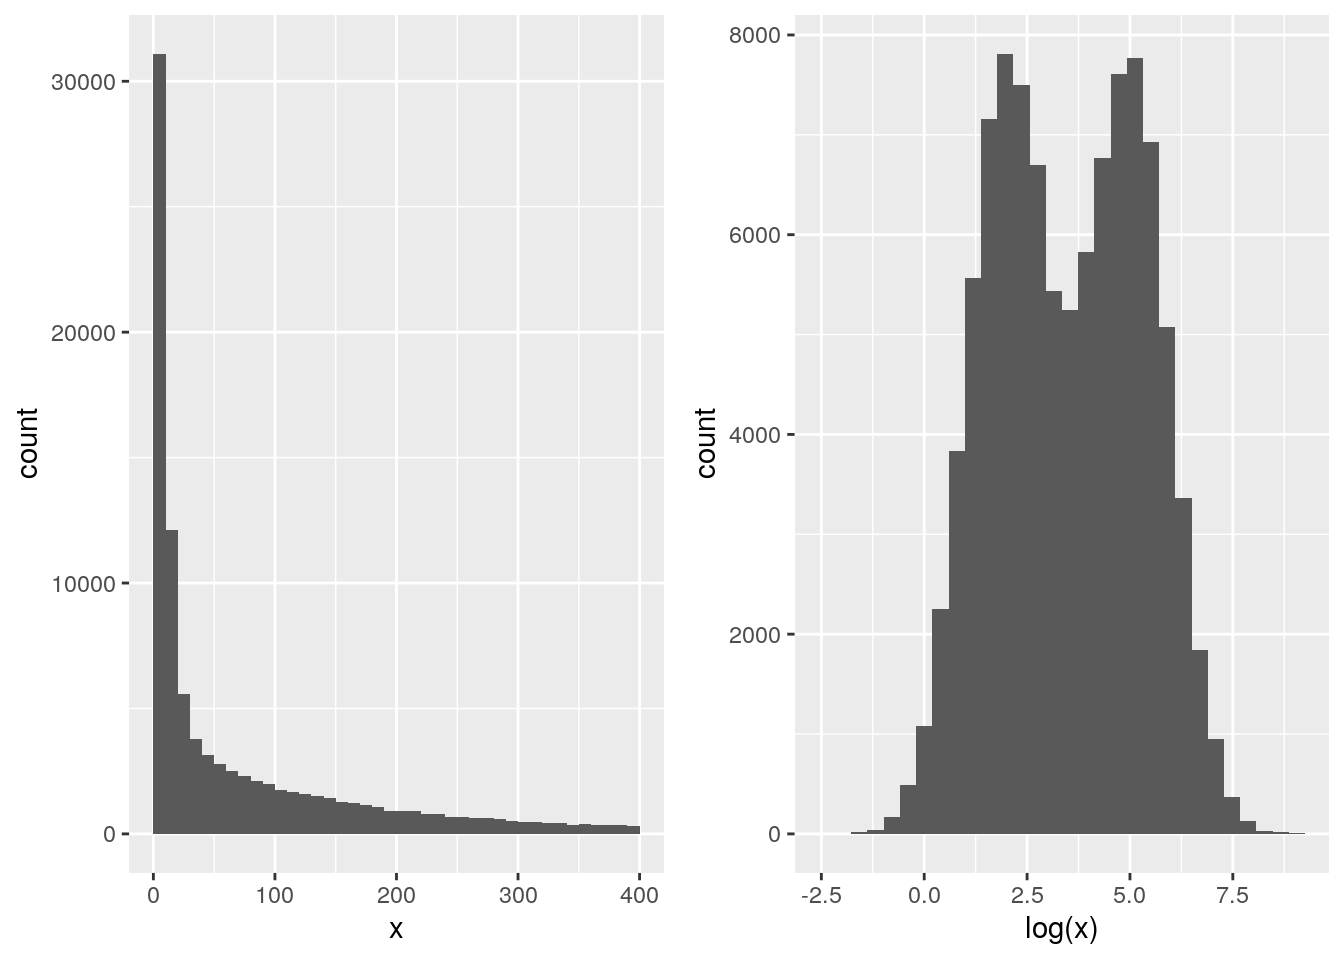
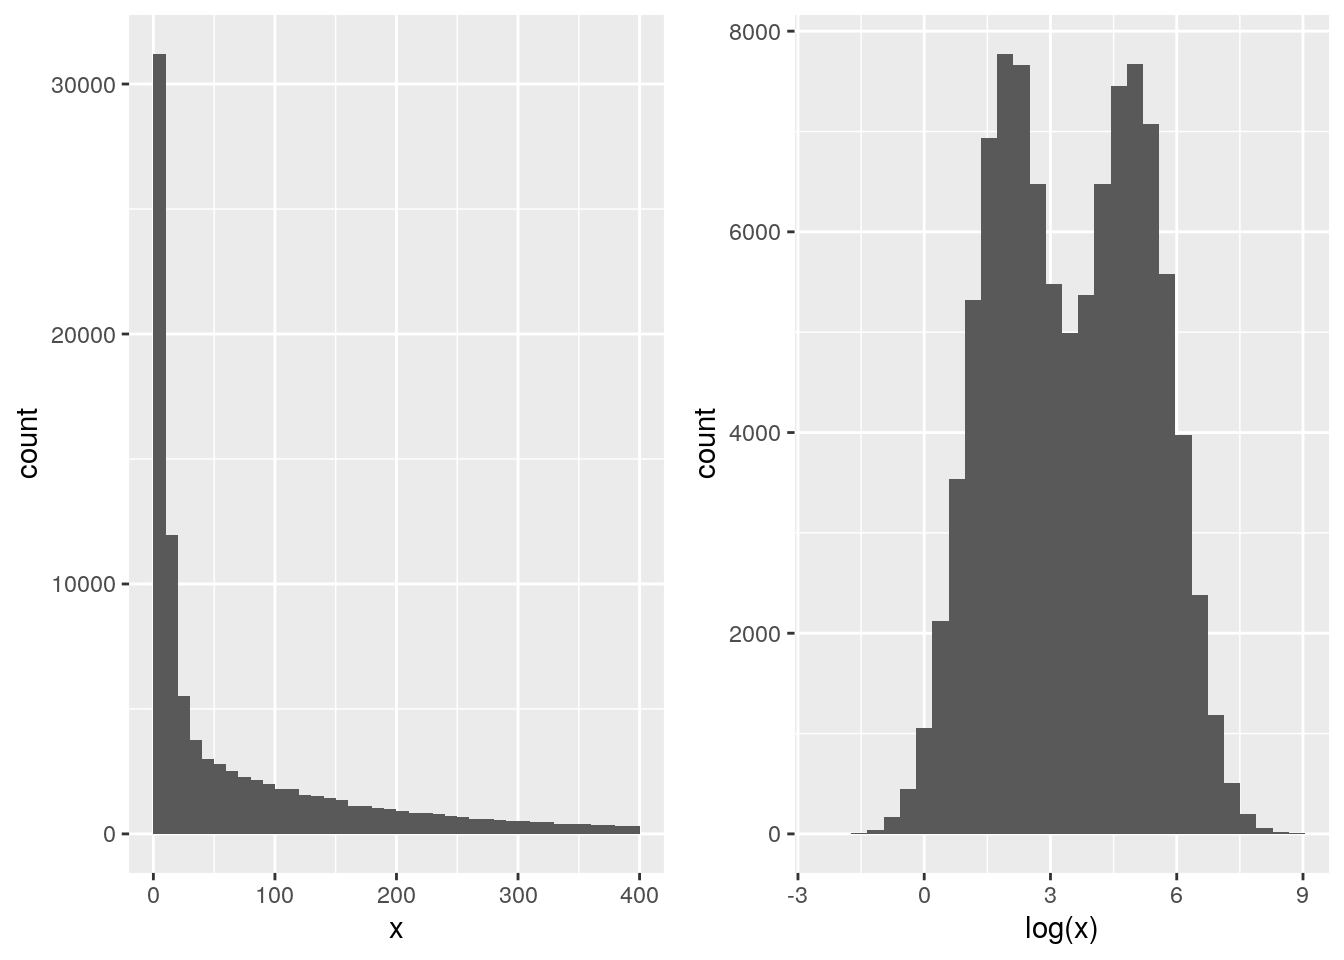
new material for pca

diff --git a/docs/sec-dimred.html b/docs/sec-dimred.html
@@ -15,7 +15,7 @@
 
 <meta name="author" content="Laurent Gatto" />
 
-<meta name="date" content="2019-11-10" />
+<meta name="date" content="2019-11-11" />
 
 <script type="text/x-mathjax-config">
 MathJax.Hub.Config({
@@ -118,6 +118,7 @@ code > span.in { color: #60a0b0; font-weight: bold; font-style: italic; } /* Inf
 <a id="active-page" href="sec-dimred.html"><span class="toc-section-number">9</span> Dimensionality reduction</a><ul class="toc-sections">
 <li class="toc"><a href="#introduction-4"> Introduction</a></li>
 <li class="toc"><a href="#lower-dimensional-projections"> Lower-dimensional projections</a></li>
+<li class="toc"><a href="#the-new-linear-combinations"> The new linear combinations</a></li>
 <li class="toc"><a href="#old-material"> Old material</a></li>
 <li class="toc"><a href="#t-distributed-stochastic-neighbour-embedding"> t-Distributed Stochastic Neighbour Embedding</a></li>
 </ul>
@@ -176,14 +177,40 @@ Figure 9.3: Regression of y onto x (left) minimisises the sums of squares of ver
 <div class="figure">
 <span id="fig:pxaex"></span>
 <p class="caption marginnote shownote">
-Figure 9.4: The prinicpal component minimises the sum of squares of the orthogonal projections.
+Figure 9.4: The first prinicpal component minimises the sum of squares of the orthogonal projections.
 </p>
-<img src="WSBIM1322_files/figure-html/pxaex-1.png" alt="The prinicpal component minimises the sum of squares of the orthogonal projections." width="1056">
+<img src="WSBIM1322_files/figure-html/pxaex-1.png" alt="The first prinicpal component minimises the sum of squares of the orthogonal projections." width="1056">
 </div>
+<p>The second principal component is then chosen to be orthogonal to the first one. In our case above, there is only one possibility.</p>
+<div class="figure">
+<span id="fig:pxaex2"></span>
+<p class="caption marginnote shownote">
+Figure 9.5: The second prinicpal component is orthogonal to the second one.
+</p>
+<img src="WSBIM1322_files/figure-html/pxaex2-1.png" alt="The second prinicpal component is orthogonal to the second one." width="1056">
+</div>
+<p>In the example above the variance, the variance along the PCs are 1.83 and 0.17. The first one explains 91.7% or that variance, and the second one merely 8.3%. This is also reflected in the different scales along the x and y axis.</p>
+<p>To account for these differences in variation along the different PCs, it is better to represent a PCA plot as a rectangle, using a ratio that is proportional to the respective variances.</p>
+<div class="figure">
+<span id="fig:pxaex3"></span>
+<p class="caption marginnote shownote">
+Figure 9.6: Final principal component analysis of the data.
+</p>
+<img src="WSBIM1322_files/figure-html/pxaex3-1.png" alt="Final principal component analysis of the data." width="960">
+</div>
+</div>
+<div id="the-new-linear-combinations" class="section level2">
+<h2>
+<span class="header-section-number">9.3</span> The new linear combinations</h2>
+<p>Principal components are linear combinations of the variables that were originally measured, they provide a new coordinate system. The PC in the previous example is a linear combination of <em>gene_x</em> and <em>gene_y</em>, more specifically</p>
+<p><span class="math display">\[ PC = c__1 gene_x + c_2 gene_y \]</span></p>
+<p>It has coefficients <span class="math inline">\((c_1, c_2)\)</span>, also called loading.</p>
+<p>PCA in general will find linear combinations of the original variables. These new linear combinations will maximise the variance of the data.</p>
+<p>TEXT: explain linear combinations and loadings; optimal lines (camel example).</p>
 </div>
 <div id="old-material" class="section level2">
 <h2>
-<span class="header-section-number">9.3</span> Old material</h2>
+<span class="header-section-number">9.4</span> Old material</h2>
 <p>Principal Component Analysis (PCA) is a technique that transforms the original n-dimensional data into a new n-dimensional space.</p>
 <ul>
 <li><p>These new dimensions are linear combinations of the original data, i.e. they are composed of proportions of the original variables.</p></li>
@@ -193,7 +220,7 @@ Figure 9.4: The prinicpal component minimises the sum of squares of the orthogon
 <div class="figure">
 <span id="fig:pcaex"></span>
 <p class="caption marginnote shownote">
-Figure 9.5: Original data (left). PC1 will maximise the variability while minimising the residuals (centre). PC2 is orthogonal to PC1 (right).
+Figure 9.7: Original data (left). PC1 will maximise the variability while minimising the residuals (centre). PC2 is orthogonal to PC1 (right).
 </p>
 <img src="WSBIM1322_files/figure-html/pcaex-1.png" alt="Original data (left). PC1 will maximise the variability while minimising the residuals (centre). PC2 is orthogonal to PC1 (right)." width="1152">
 </div>
@@ -213,13 +240,13 @@ Figure 9.5: Original data (left). PC1 will maximise the variability while minimi
 <div class="figure">
 <span id="fig:histpc1"></span>
 <p class="caption marginnote shownote">
-Figure 9.6: Iris data along PC1.
+Figure 9.8: Iris data along PC1.
 </p>
 <img src="WSBIM1322_files/figure-html/histpc1-1.png" alt="Iris data along PC1." width="672">
 </div>
 <div id="visualisation" class="section level3">
 <h3>
-<span class="header-section-number">9.3.1</span> Visualisation</h3>
+<span class="header-section-number">9.4.1</span> Visualisation</h3>
 <p>A <strong>biplot</strong> features all original points re-mapped (rotated) along the first two PCs as well as the original features as vectors along the same PCs. Feature vectors that are in the same direction in PC space are also correlated in the original data space.</p>
 <div class="sourceCode"><pre class="sourceCode r"><code class="sourceCode r"><span class="kw">biplot</span>(irispca)</code></pre></div>
 <p><img src="WSBIM1322_files/figure-html/irisbiplot-1.png" width="672"></p>
@@ -246,7 +273,7 @@ Figure 9.6: Iris data along PC1.
 </div>
 <div id="data-pre-processing" class="section level3">
 <h3>
-<span class="header-section-number">9.3.2</span> Data pre-processing</h3>
+<span class="header-section-number">9.4.2</span> Data pre-processing</h3>
 <p>We haven’t looked at other <code>prcomp</code> parameters, other that the first one, <code>x</code>. There are two other ones that are or importance, in particular in the light of the section on pre-processing above, which are <code>center</code> and <code>scale.</code>. The former is set to <code>TRUE</code> by default, while the second one is set the <code>FALSE</code>.</p>
 <blockquote>
 <p>Challenge</p>
@@ -261,7 +288,7 @@ Figure 9.6: Iris data along PC1.
 </div>
 <div id="final-comments-on-pca" class="section level3">
 <h3>
-<span class="header-section-number">9.3.3</span> Final comments on PCA</h3>
+<span class="header-section-number">9.4.3</span> Final comments on PCA</h3>
 <p>Real datasets often come with <strong>missing values</strong>. In R, these should be encoded using <code>NA</code>. Unfortunately, PCA cannot deal with missing values, and observations containing <code>NA</code> values will be dropped automatically. This is a viable solution only when the proportion of missing values is low.</p>
 <p>It is also possible to impute missing values. This is described in greater details in the <em>Data pre-processing</em> section in the supervised machine learning chapter.</p>
 <p>Finally, we should be careful when using categorical data in any of the unsupervised methods described above. Categories are generally represented as factors, which are encoded as integer levels, and might give the impression that a distance between levels is a relevant measure (which it is not, unless the factors are ordered). In such situations, categorical data can be dropped, or it is possible to encode categories as binary <strong>dummy variables</strong>. For example, if we have 3 categories, say <code>A</code>, <code>B</code> and <code>C</code>, we would create two dummy variables to encode the categories as:</p>
@@ -294,7 +321,7 @@ Figure 9.6: Iris data along PC1.
 </div>
 <div id="t-distributed-stochastic-neighbour-embedding" class="section level2">
 <h2>
-<span class="header-section-number">9.4</span> t-Distributed Stochastic Neighbour Embedding</h2>
+<span class="header-section-number">9.5</span> t-Distributed Stochastic Neighbour Embedding</h2>
 <p><a href="https://lvdmaaten.github.io/tsne/">t-Distributed Stochastic Neighbour Embedding</a> (t-SNE) is a <em>non-linear</em> dimensionality reduction technique, i.e. that different regions of the data space will be subjected to different transformations. t-SNE will compress small distances, thus bringing close neighbours together, and will ignore large distances. It is particularly well suited for <a href="https://distill.pub/2016/misread-tsne/">very high dimensional data</a>.</p>
 <p>In R, we can use the <code>Rtsne</code> function from the <em><a href="https://CRAN.R-project.org/package=Rtsne">Rtsne</a></em>. Before, we however need to remove any duplicated entries in the dataset.</p>
 <div class="sourceCode"><pre class="sourceCode r"><code class="sourceCode r"><span class="kw">library</span>(<span class="st">"Rtsne"</span>)
@@ -305,7 +332,7 @@ iristsne &lt;-<span class="st"> </span><span class="kw">Rtsne</span>(uiris[, <sp
 <p>As with PCA, the data can be scaled and centred prior the running t-SNE (see the <code>pca_center</code> and <code>pca_scale</code> arguments). The algorithm is stochastic, and will produce different results at each repetition.</p>
 <div id="parameter-tuning" class="section level3">
 <h3>
-<span class="header-section-number">9.4.1</span> Parameter tuning</h3>
+<span class="header-section-number">9.5.1</span> Parameter tuning</h3>
 <p>t-SNE (as well as many other methods, in particular classification algorithms) has two important parameters that can substantially influence the clustering of the data</p>
 <ul>
 <li>
@@ -331,7 +358,7 @@ iristsne &lt;-<span class="st"> </span><span class="kw">Rtsne</span>(uiris[, <sp
 <a href="sec-sl.html"><button class="btn btn-default">Next</button></a>
 </p>
 <p class="build-date">Page built: 
-2019-11-10
+2019-11-11
 </p>
 </div>
 </div>

diff --git a/docs/sec-vis.html b/docs/sec-vis.html
@@ -15,7 +15,7 @@
 
 <meta name="author" content="Laurent Gatto" />
 
-<meta name="date" content="2019-11-10" />
+<meta name="date" content="2019-11-11" />
 
 <script type="text/x-mathjax-config">
 MathJax.Hub.Config({
@@ -720,7 +720,7 @@ p1 &lt;-<span class="st">  </span><span class="kw">ggplot</span>(sim, <span clas
 p2 &lt;-<span class="st">  </span><span class="kw">ggplot</span>(sim, <span class="kw">aes</span>(<span class="kw">log</span>(x))) <span class="op">+</span>
 <span class="st">    </span><span class="kw">geom_histogram</span>(<span class="dt">bins =</span> <span class="dv">30</span>)
 p1 <span class="op">+</span><span class="st"> </span>p2</code></pre></div>
-<pre><code>## Warning: Removed 7986 rows containing non-finite values (stat_bin).</code></pre>
+<pre><code>## Warning: Removed 8047 rows containing non-finite values (stat_bin).</code></pre>
 <div class="figure">
 <span id="fig:sim"></span>
 <p class="caption marginnote shownote">
@@ -937,7 +937,7 @@ scp2 &lt;-<span class="st"> </span>scp <span class="op">+</span><span class="st"
 <a href="sec-obj.html"><button class="btn btn-default">Next</button></a>
 </p>
 <p class="build-date">Page built: 
-2019-11-10
+2019-11-11
 </p>
 </div>
 </div>

diff --git a/docs/index.html b/docs/index.html
@@ -15,7 +15,7 @@
 
 <meta name="author" content="Laurent Gatto" />
 
-<meta name="date" content="2019-11-10" />
+<meta name="date" content="2019-11-11" />
 
 <script type="text/x-mathjax-config">
 MathJax.Hub.Config({
@@ -197,7 +197,7 @@ devtools<span class="op">::</span><span class="kw">install_github</span>(<span c
 <a href="sec-refresher.html"><button class="btn btn-default">Next</button></a>
 </p>
 <p class="build-date">Page built: 
-2019-11-10
+2019-11-11
 </p>
 </div>
 </div>

diff --git a/docs/sec-si.html b/docs/sec-si.html
@@ -15,7 +15,7 @@
 
 <meta name="author" content="Laurent Gatto" />
 
-<meta name="date" content="2019-11-10" />
+<meta name="date" content="2019-11-11" />
 
 <script type="text/x-mathjax-config">
 MathJax.Hub.Config({
@@ -275,7 +275,7 @@ BiocManager<span class="op">::</span><span class="kw">install</span>(pkgs)</code
 <a href="sec-ccl.html"><button class="btn btn-default">Previous</button></a>
 </p>
 <p class="build-date">Page built: 
-2019-11-10
+2019-11-11
 </p>
 </div>
 </div>

diff --git a/docs/sec-sl.html b/docs/sec-sl.html
@@ -15,7 +15,7 @@
 
 <meta name="author" content="Laurent Gatto" />
 
-<meta name="date" content="2019-11-10" />
+<meta name="date" content="2019-11-11" />
 
 <script type="text/x-mathjax-config">
 MathJax.Hub.Config({
@@ -140,7 +140,7 @@ code > span.in { color: #60a0b0; font-weight: bold; font-style: italic; } /* Inf
 <a href="sec-biovis.html"><button class="btn btn-default">Next</button></a>
 </p>
 <p class="build-date">Page built: 
-2019-11-10
+2019-11-11
 </p>
 </div>
 </div>

diff --git a/docs/sec-ul.html b/docs/sec-ul.html
@@ -15,7 +15,7 @@
 
 <meta name="author" content="Laurent Gatto" />
 
-<meta name="date" content="2019-11-10" />
+<meta name="date" content="2019-11-11" />
 
 <script type="text/x-mathjax-config">
 MathJax.Hub.Config({
@@ -518,7 +518,7 @@ hcl2 &lt;-<span class="st"> </span><span class="kw">hclust</span>(<span class="k
 <a href="sec-dimred.html"><button class="btn btn-default">Next</button></a>
 </p>
 <p class="build-date">Page built: 
-2019-11-10
+2019-11-11
 </p>
 </div>
 </div>

diff --git a/docs/sec-biovis.html b/docs/sec-biovis.html
@@ -15,7 +15,7 @@
 
 <meta name="author" content="Laurent Gatto" />
 
-<meta name="date" content="2019-11-10" />
+<meta name="date" content="2019-11-11" />
 
 <script type="text/x-mathjax-config">
 MathJax.Hub.Config({
@@ -143,7 +143,7 @@ code > span.in { color: #60a0b0; font-weight: bold; font-style: italic; } /* Inf
 <a href="sec-ccl.html"><button class="btn btn-default">Next</button></a>
 </p>
 <p class="build-date">Page built: 
-2019-11-10
+2019-11-11
 </p>
 </div>
 </div>

diff --git a/docs/sec-refresher.html b/docs/sec-refresher.html
@@ -15,7 +15,7 @@
 
 <meta name="author" content="Laurent Gatto" />
 
-<meta name="date" content="2019-11-10" />
+<meta name="date" content="2019-11-11" />
 
 <script type="text/x-mathjax-config">
 MathJax.Hub.Config({
@@ -274,7 +274,7 @@ code > span.in { color: #60a0b0; font-weight: bold; font-style: italic; } /* Inf
 <a href="sec-vis.html"><button class="btn btn-default">Next</button></a>
 </p>
 <p class="build-date">Page built: 
-2019-11-10
+2019-11-11
 </p>
 </div>
 </div>

diff --git a/docs/sec-mlintro.html b/docs/sec-mlintro.html
@@ -15,7 +15,7 @@
 
 <meta name="author" content="Laurent Gatto" />
 
-<meta name="date" content="2019-11-10" />
+<meta name="date" content="2019-11-11" />
 
 <script type="text/x-mathjax-config">
 MathJax.Hub.Config({
@@ -588,7 +588,7 @@ Figure 6.9: A dataset of 100 labelled and three new, unlalled, points.
 <a href="sec-testing.html"><button class="btn btn-default">Next</button></a>
 </p>
 <p class="build-date">Page built: 
-2019-11-10
+2019-11-11
 </p>
 </div>
 </div>

diff --git a/docs/sec-ccl.html b/docs/sec-ccl.html
@@ -15,7 +15,7 @@
 
 <meta name="author" content="Laurent Gatto" />
 
-<meta name="date" content="2019-11-10" />
+<meta name="date" content="2019-11-11" />
 
 <script type="text/x-mathjax-config">
 MathJax.Hub.Config({
@@ -175,7 +175,7 @@ Figure 12.4: Classification of samples (top) or features (bottom).
 <a href="sec-si.html"><button class="btn btn-default">Next</button></a>
 </p>
 <p class="build-date">Page built: 
-2019-11-10
+2019-11-11
 </p>
 </div>
 </div>

diff --git a/docs/sec-biostrings.html b/docs/sec-biostrings.html
@@ -15,7 +15,7 @@
 
 <meta name="author" content="Laurent Gatto" />
 
-<meta name="date" content="2019-11-10" />
+<meta name="date" content="2019-11-11" />
 
 <script type="text/x-mathjax-config">
 MathJax.Hub.Config({
@@ -768,7 +768,7 @@ Figure 4.1: GC content for chomosome 2L (10 - 11 Mb)
 <a href="sec-norm.html"><button class="btn btn-default">Next</button></a>
 </p>
 <p class="build-date">Page built: 
-2019-11-10
+2019-11-11
 </p>
 </div>
 </div>

diff --git a/docs/sec-norm.html b/docs/sec-norm.html
@@ -15,7 +15,7 @@
 
 <meta name="author" content="Laurent Gatto" />
 
-<meta name="date" content="2019-11-10" />
+<meta name="date" content="2019-11-11" />
 
 <script type="text/x-mathjax-config">
 MathJax.Hub.Config({
@@ -515,7 +515,7 @@ col_na</code></pre></div>
 <a href="sec-mlintro.html"><button class="btn btn-default">Next</button></a>
 </p>
 <p class="build-date">Page built: 
-2019-11-10
+2019-11-11
 </p>
 </div>
 </div>
